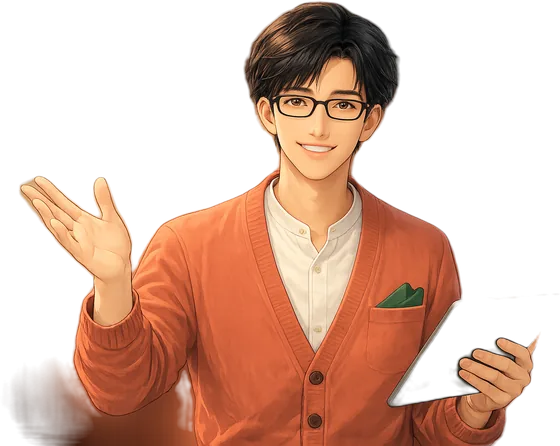
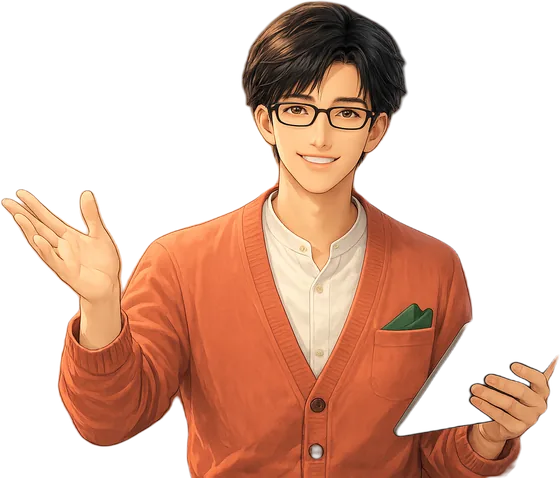
fix(ai-course): 悠斗ヒーローの腕欠損を修正＋誤認コピー是正
- 全キャラ画像を u2net(本体) で再マット。逆光で消えていた悠斗waveの右腕・手を復元
- 悠斗cheerは元画像の強い逆光で右拳の切り抜きが破綻するため、最終CTAをクリーンなbaseへ一時差替え（破損アセットは削除）
- ヒーロー見出しの読点を除去：「読めるのに、話せない」を半年で終わらせる。
- 「24時間いつでも／使い放題／不限次」等の無制限に読める表現を「好きな時間に練習」等へ是正（利用上限の可能性をFAQに明記）

diff --git a/src/pages/ai-lesson/landing/lpContent.ts b/src/pages/ai-lesson/landing/lpContent.ts
@@ -77,9 +77,11 @@ export const VARIANTS: Record<CharacterVariant, VariantConfig> = {
     gender: { ja: '男性のAIチューター', zh: '男性AI辅导老师' },
     images: {
       base: 'yuto-sensei-base', wave: 'yuto-sensei-wave',
-      cheer: 'yuto-sensei-cheer', teaching: 'yuto-sensei-teaching',
+      // cheer(応援ポーズ)は元画像の強い逆光で右拳の切り抜きが破綻するため、
+      // 最終CTAはクリーンな base ポーズを使用（再生成でき次第、専用の応援ポーズへ差し替え）。
+      cheer: 'yuto-sensei-base', teaching: 'yuto-sensei-teaching',
     },
-    imageSize: { base: [680, 977], wave: [820, 1208], cheer: [520, 526], teaching: [560, 479] },
+    imageSize: { base: [680, 977], wave: [820, 1208], cheer: [680, 977], teaching: [560, 479] },
     hero: {
       bubble: { ja: 'こんにちは！\nきょうは何を話す？', zh: '你好！\n今天聊点什么？' },
     },
@@ -143,7 +145,7 @@ export interface LpContent {
 export const LP: LpContent = {
   eyebrow: { ja: '日本在住・中国語話者のための日本語会話コース', zh: '为在日中文母语者打造的日语会话课程' },
   heroTitleLines: {
-    ja: ['「読めるのに、', '話せない」を、', '半年で終わらせる。'],
+    ja: ['「読めるのに、', '話せない」を', '半年で終わらせる。'],
     zh: ['把「看得懂', '却说不出」，', '用半年终结。'],
   },
   heroHighlight: { ja: '話せない', zh: '说不出' },
@@ -155,8 +157,8 @@ export const LP: LpContent = {
   ctaSecondary: { ja: '学習システムを見る', zh: '查看学习系统' },
   ctaContents: { ja: 'コース内容を確認する', zh: '了解课程内容' },
   heroChips: {
-    ja: ['AI音声で1対1', '個別レッスン 全24回', 'N2文法180項目', '24時間いつでも'],
-    zh: ['AI语音一对一', '一对一课程 共24次', 'N2语法180项', '24小时随时'],
+    ja: ['AI音声で1対1', '個別レッスン 全24回', 'N2文法180項目', '好きな時間にAIと練習'],
+    zh: ['AI语音一对一', '一对一课程 共24次', 'N2语法180项', '随时和AI练习'],
   },
   mockNote: {
     ja: '一部の教材はベータ版として順次更新しています。',
@@ -220,8 +222,8 @@ export const LP: LpContent = {
       label: { ja: '毎日 · AI', zh: '每天 · AI' },
       name: { ja: 'AI先生（翔子先生・悠斗先生）', zh: 'AI老师（翔子・悠斗）' },
       items: {
-        ja: ['毎日の会話練習（3〜10分の短時間）', '話したその場で即フィードバック', '文法・語彙・聴解の練習', '最適なタイミングで復習', '学習記録を自動で蓄積', '24時間いつでも・何度でも言い直せる'],
-        zh: ['每天的会话练习（3〜10分钟）', '开口后立即反馈', '语法・词汇・听力练习', '在最合适的时机复习', '自动记录学习轨迹', '24小时随时・可无限次重说'],
+        ja: ['毎日の会話練習（3〜10分の短時間）', '話したその場で即フィードバック', '文法・語彙・聴解の練習', '最適なタイミングで復習', '学習記録を自動で蓄積', '好きな時間に・何度でも言い直せる'],
+        zh: ['每天的会话练习（3〜10分钟）', '开口后立即反馈', '语法・词汇・听力练习', '在最合适的时机复习', '自动记录学习轨迹', '随时练习・可反复重说'],
       },
     },
     human: {
@@ -423,7 +425,7 @@ export const LP: LpContent = {
     items: {
       ja: [
         '60分の個別レッスン 全24回',
-        'AI会話システム（使い放題・24時間）',
+        'AI会話システム（毎日・好きな時間に練習）',
         '12週間・全60会話ミッション',
         'N2文法 180項目（中国語解説つき）',
         '語彙・聴解・読解の教材',
@@ -436,7 +438,7 @@ export const LP: LpContent = {
       ],
       zh: [
         '60分钟一对一课程 共24次',
-        'AI会话系统（不限次・24小时）',
+        'AI会话系统（每天・随时练习）',
         '12周・共60个会话任务',
         'N2语法 180项（附中文讲解）',
         '词汇・听力・阅读教材',
@@ -467,14 +469,14 @@ export const LP: LpContent = {
     includes: {
       ja: [
         '安田翔（コーチ）との60分個別レッスン 全24回',
-        'AI先生との音声会話 使い放題（24時間）',
+        'AI先生との音声会話（毎日、好きな時間に）',
         'N2文法180・語彙・聴解・読解',
         '復習システム・学習記録・個別ロードマップ',
         'WeChatでの相談・6か月間のシステム利用',
       ],
       zh: [
         '与安田翔（教练）的60分钟一对一 共24次',
-        '与AI老师的语音会话 不限次（24小时）',
+        '与AI老师的语音会话（每天・随时练习）',
         'N2语法180・词汇・听力・阅读',
         '复习系统・学习记录・专属路线',
         '微信咨询・6个月系统使用权',
@@ -510,7 +512,7 @@ export const LP: LpContent = {
         { q: 'AI教材の内容は正確ですか？', a: '順次改善しています。一部はベータ版として更新中で、その状態は正直に表示します。' },
         { q: '支払い方法は？', a: '既存の規約に準じます。詳細は無料相談でご案内します。' },
         { q: 'キャンセル・返金は？', a: '既存のキャンセル・返金規約に準じます。' },
-        { q: 'AI会話は何回利用できますか？', a: '24時間、使い放題です。何度でも言い直せます。' },
+        { q: 'AI会話は何回利用できますか？', a: '好きな時間に練習でき、何度でも言い直せます。安定した運用のため、ご利用状況に応じて上限を設ける場合があります。' },
         { q: 'どのレベルの人に向いていますか？', a: 'N3〜N2前後で、文法は分かるのに会話で使えない方に向いています。' },
       ],
       zh: [
@@ -526,7 +528,7 @@ export const LP: LpContent = {
         { q: 'AI教材内容准确吗？', a: '在持续改进中。部分为测试版更新中，我们会如实标注状态。' },
         { q: '如何付款？', a: '依据现行条款。详情将在免费咨询时说明。' },
         { q: '可以取消・退款吗？', a: '依据现行的取消・退款条款。' },
-        { q: 'AI会话能用多少次？', a: '24小时不限次，可无限次重说。' },
+        { q: 'AI会话能用多少次？', a: '可在方便的时间练习，并反复重说。为保证稳定运营，可能会视使用情况设置上限。' },
         { q: '适合什么水平的人？', a: '适合N3〜N2左右、懂语法却在会话中用不出来的人。' },
       ],
     },

diff --git a/src/pages/ai-lesson/landing/sectionsE.tsx b/src/pages/ai-lesson/landing/sectionsE.tsx
@@ -43,7 +43,7 @@ export function FinalCtaSection({ v, lang, onConsult }: { v: VariantConfig; lang
           <div className="relative overflow-hidden rounded-[32px] bg-gradient-to-b from-lp-coral to-lp-coral-deep text-white text-center px-6 py-14 sm:py-20">
             <img
               src={imgUrl(v.images.cheer)} width={cw} height={ch}
-              alt={lang === 'ja' ? `${v.name.ja}が応援している` : `${v.name.zh}在为你加油`}
+              alt={lang === 'ja' ? `${v.name.ja}` : `${v.name.zh}`}
               loading="lazy" decoding="async"
               className="w-[130px] h-auto mx-auto mb-4 drop-shadow-[0_10px_16px_rgba(0,0,0,0.2)]"
             />
